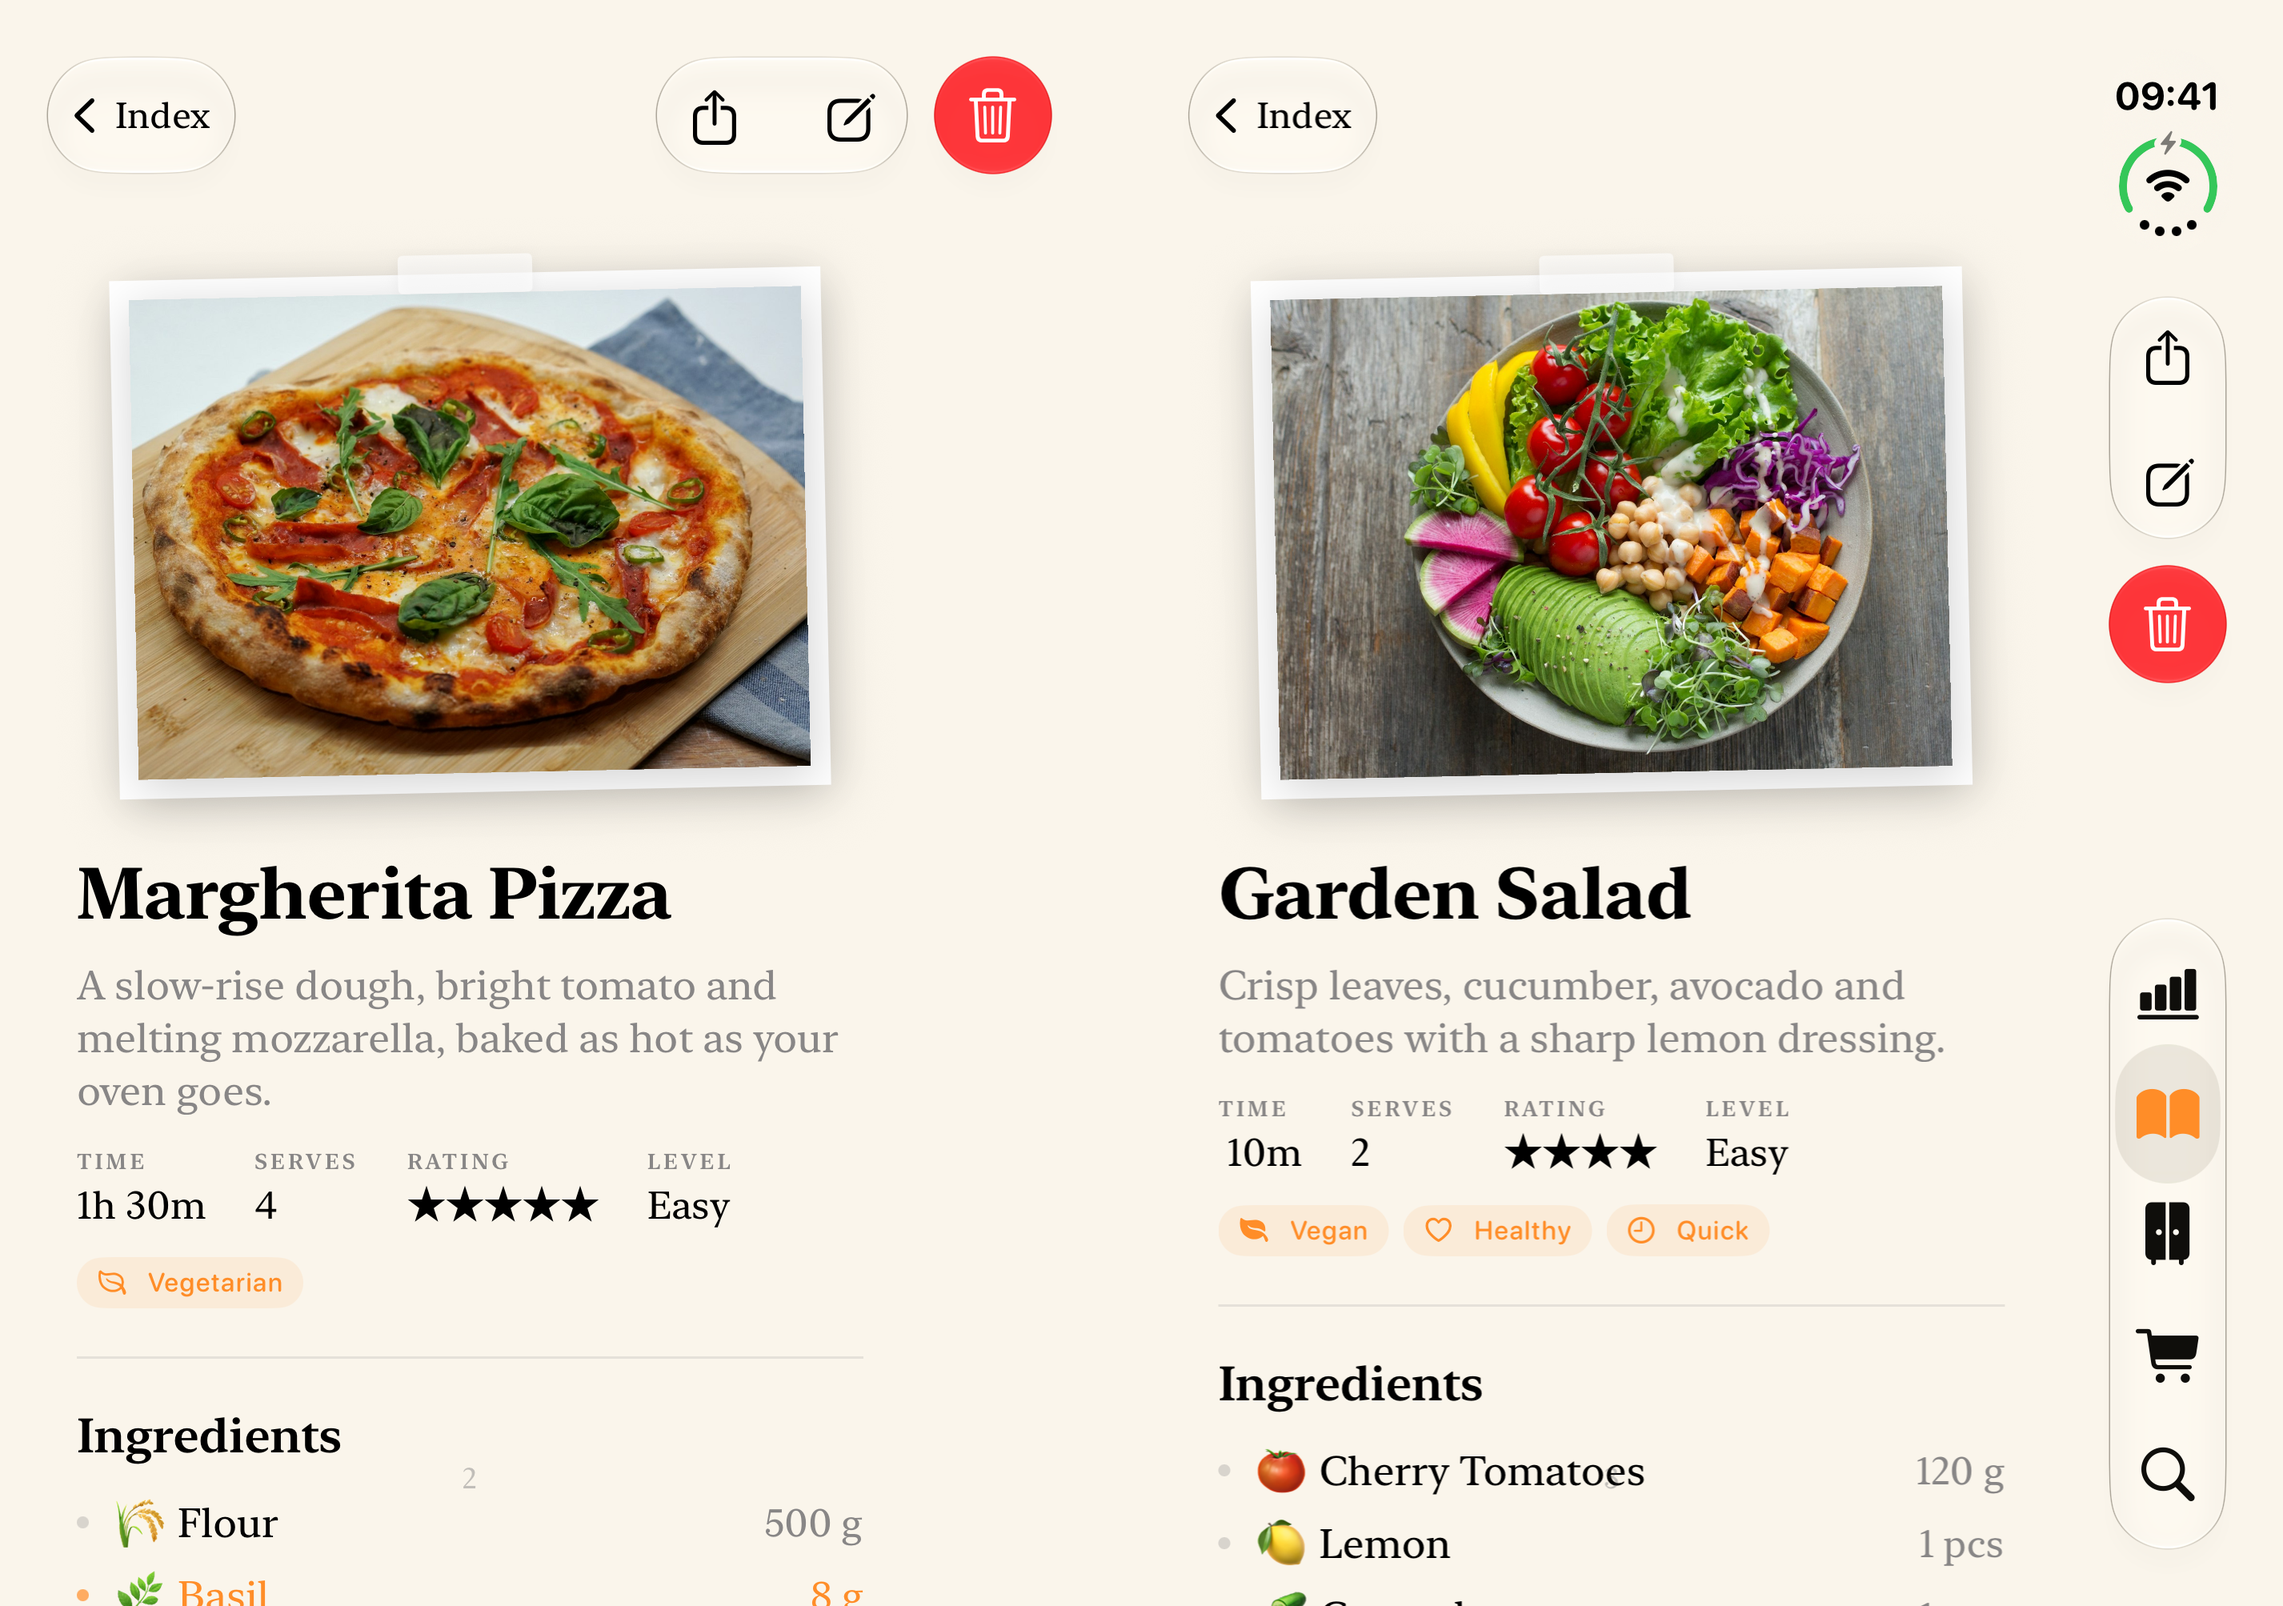
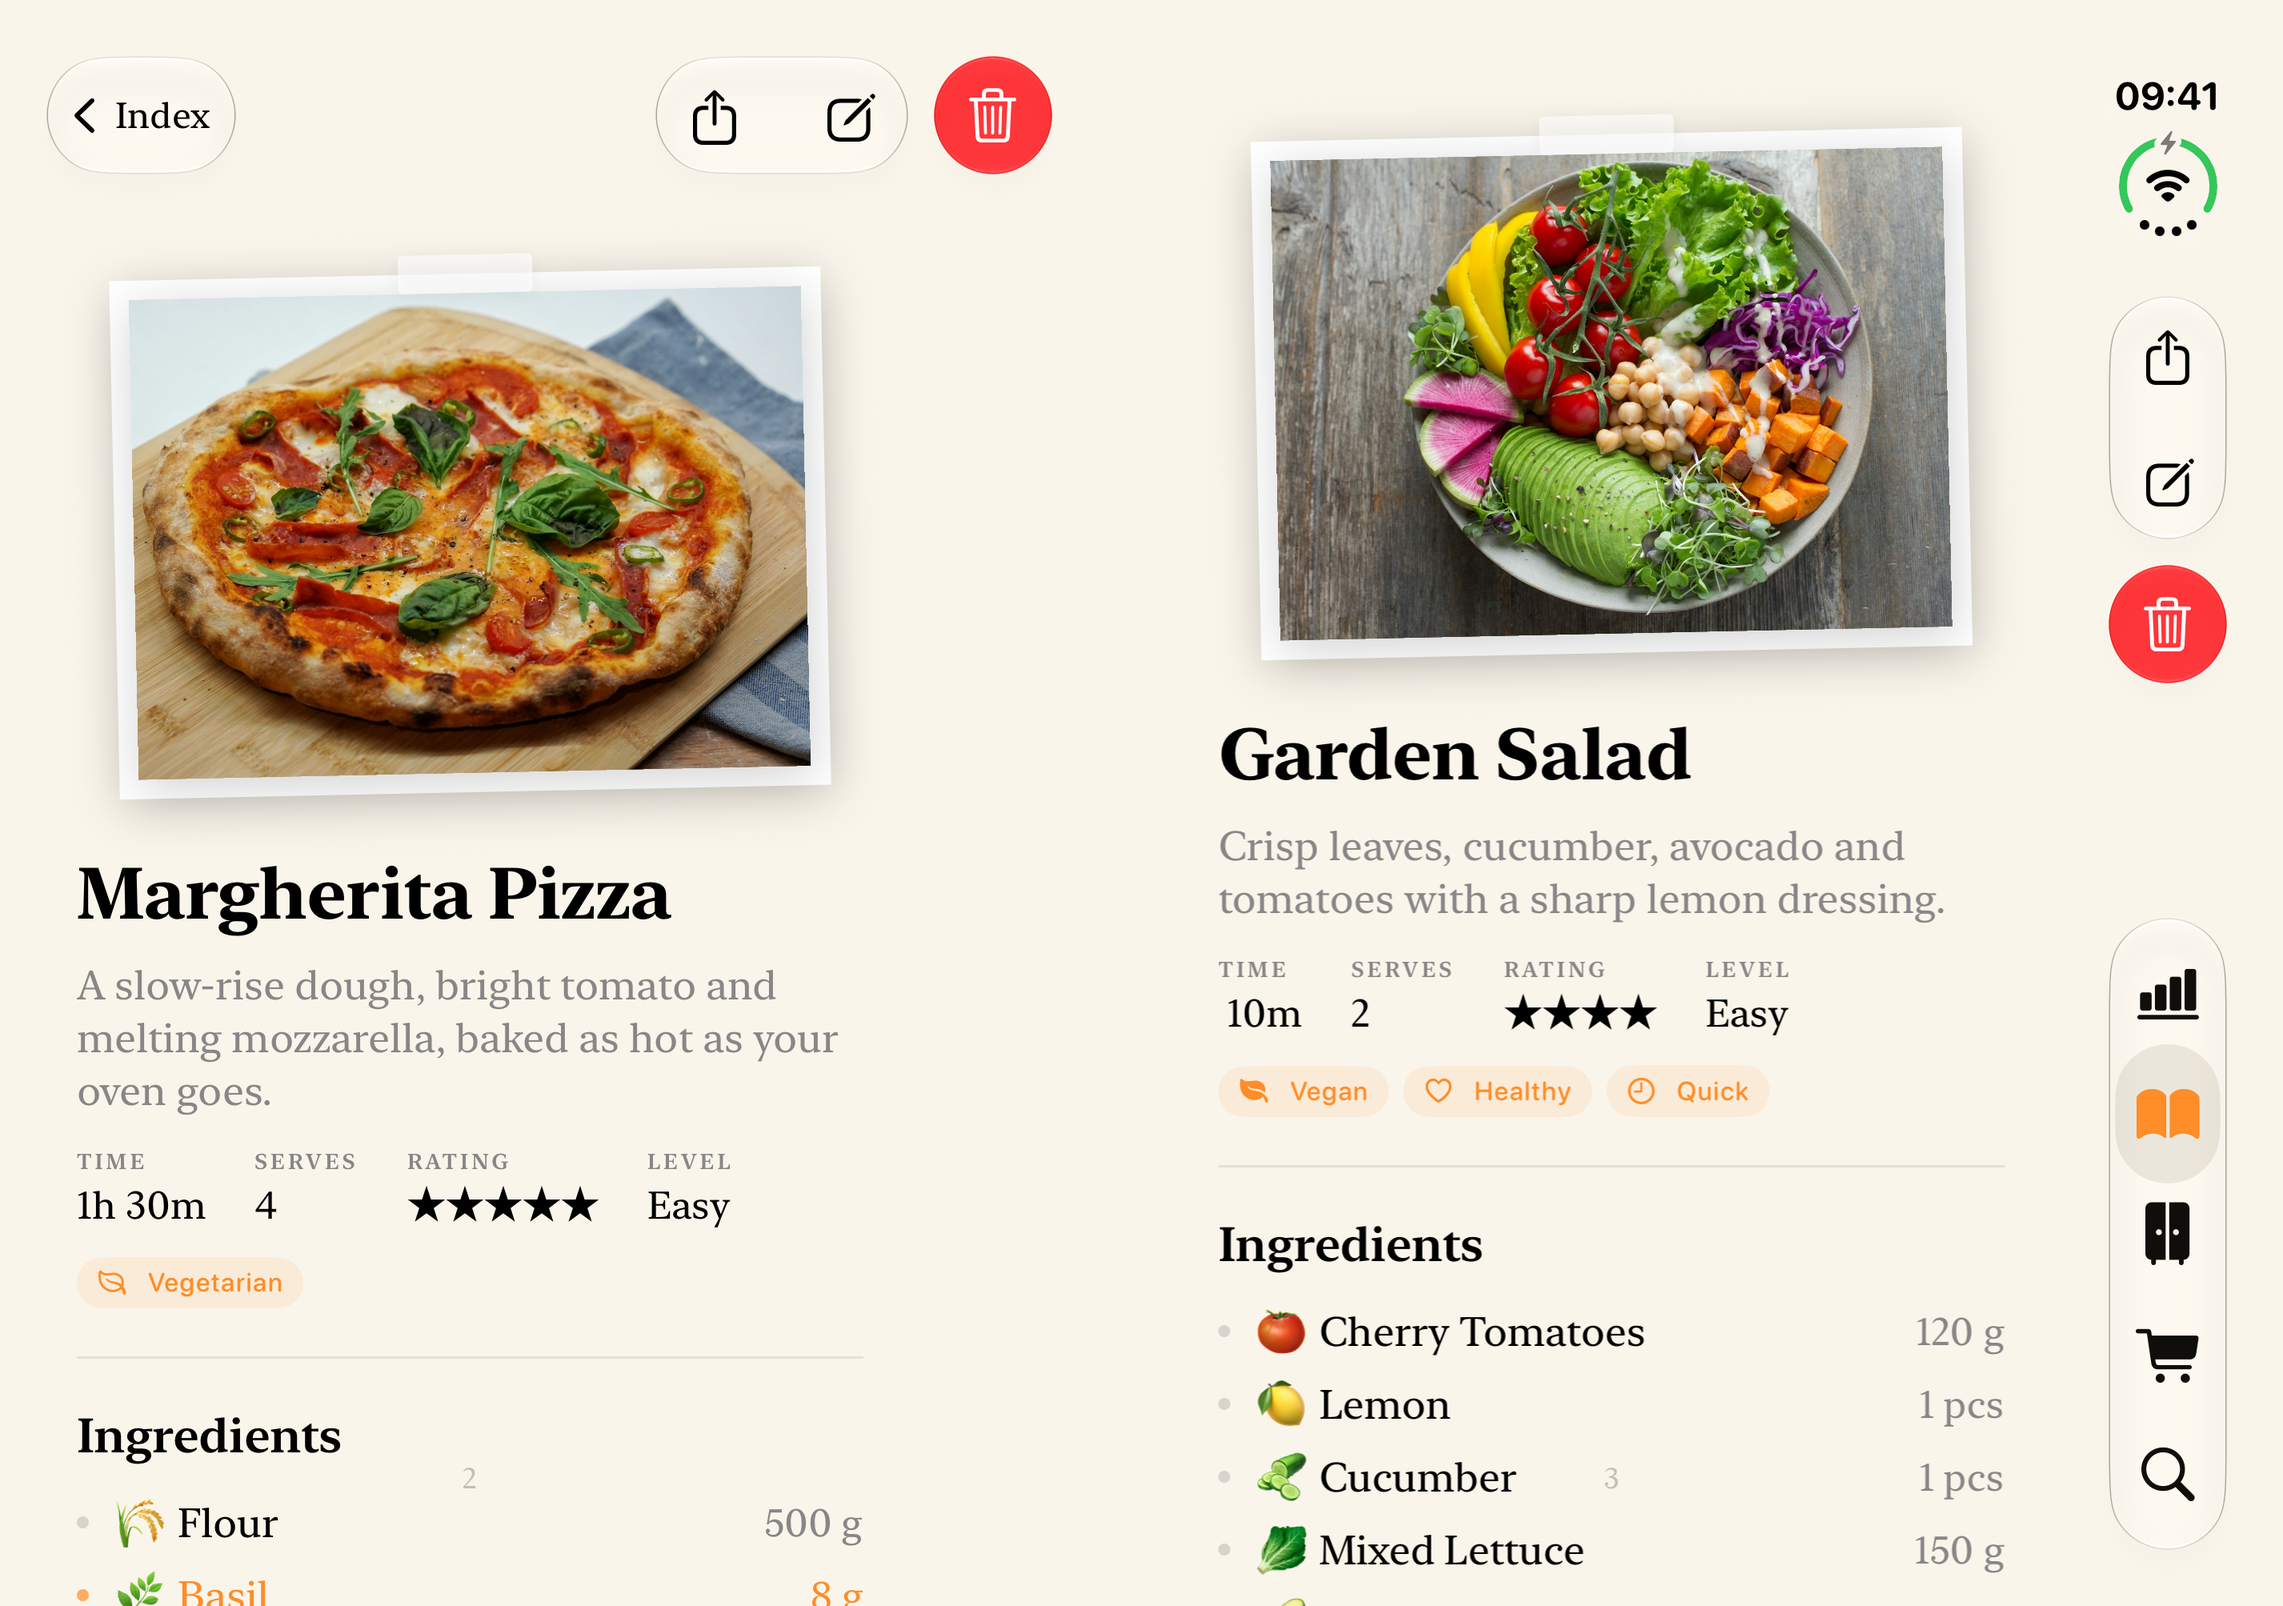
fix: show one Index button per two-page spread
On the right-hand page of a spread the recipe page hides its "Index" back
button, so the unfolded book shows a single button. Recaptures the iPhone
Duo spread screenshots.

diff --git a/SpinFood/View/Book/BookRecipePage.swift b/SpinFood/View/Book/BookRecipePage.swift
@@ -23,6 +23,8 @@ struct BookRecipePage: View {
     var onEdit: () -> Void
     var onBack: () -> Void
     var onDelete: () -> Void = {}
+    /// False for the right-hand page of a two-page spread, so a spread shows one "Index" button.
+    var showsBackButton: Bool = true
 
     @Environment(AppNavigator.self) private var navigator
 
@@ -75,13 +77,15 @@ struct BookRecipePage: View {
             .navigationTitle("")
             .navigationBarTitleDisplayMode(.inline)
             .toolbar {
-                ToolbarItem(placement: .topBarLeading) {
-                    Button(action: onBack) {
-                        HStack(spacing: 5) {
-                            Image(systemName: "chevron.left")
-                                .font(.system(size: 13, weight: .semibold))
-                            Text("Index")
-                                .font(.system(.subheadline, design: .serif))
+                if showsBackButton {
+                    ToolbarItem(placement: .topBarLeading) {
+                        Button(action: onBack) {
+                            HStack(spacing: 5) {
+                                Image(systemName: "chevron.left")
+                                    .font(.system(size: 13, weight: .semibold))
+                                Text("Index")
+                                    .font(.system(.subheadline, design: .serif))
+                            }
                         }
                     }
                 }

diff --git a/SpinFood/View/Book/BookPageCurlView.swift b/SpinFood/View/Book/BookPageCurlView.swift
@@ -188,7 +188,9 @@ final class BookPageViewController: UIPageViewController {
                     pageNumber: i + 1,
                     onEdit: { onEdit(recipe) },
                     onBack: onBack,
-                    onDelete: { onDelete(recipe) }
+                    onDelete: { onDelete(recipe) },
+                    // Recipe i sits on page i + 1; in a spread only the left (even) page gets "Index".
+                    showsBackButton: !isSpread || (i + 1).isMultiple(of: 2)
                 )
                 .environment(navigator)
             ))
